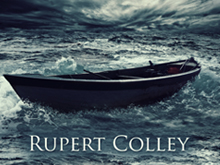
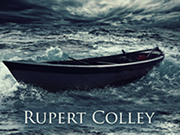
resizing

diff --git a/index.html b/index.html
@@ -19,8 +19,8 @@
 		}
 		
 		#wrapper {
-			margin: 90px;
-			width: 1000px;
+			margin: 0;
+			width: 900px;
 			float: right;
 		}
 		
@@ -28,17 +28,16 @@
 	background: url(images/test_shelf.jpg);
 		height: 800px;
 		background-repeat: repeat-y;
-		margin-top: 100px;
-		margin: 70px 0px;
+		margin: 40px 0px;
 		text-align: center;
 		width: 1000px;
 	}
 		
 		.container .row {
 			position: relative;
-			top: -15px;
+			top: 20px;
 			padding-left: 0;
-			padding-bottom: 100px;
+			padding-bottom: 130px;
 			
 		}
 		
@@ -95,9 +94,7 @@ function white2transparent(img)
 	
 </head>
 <body>
-	<div><img class="draggable" src="http://fiddle.jshell.net/img/logo.png"/></div> 
 
-	
 	<div id="wrapper">
 	
 <div class="container">
